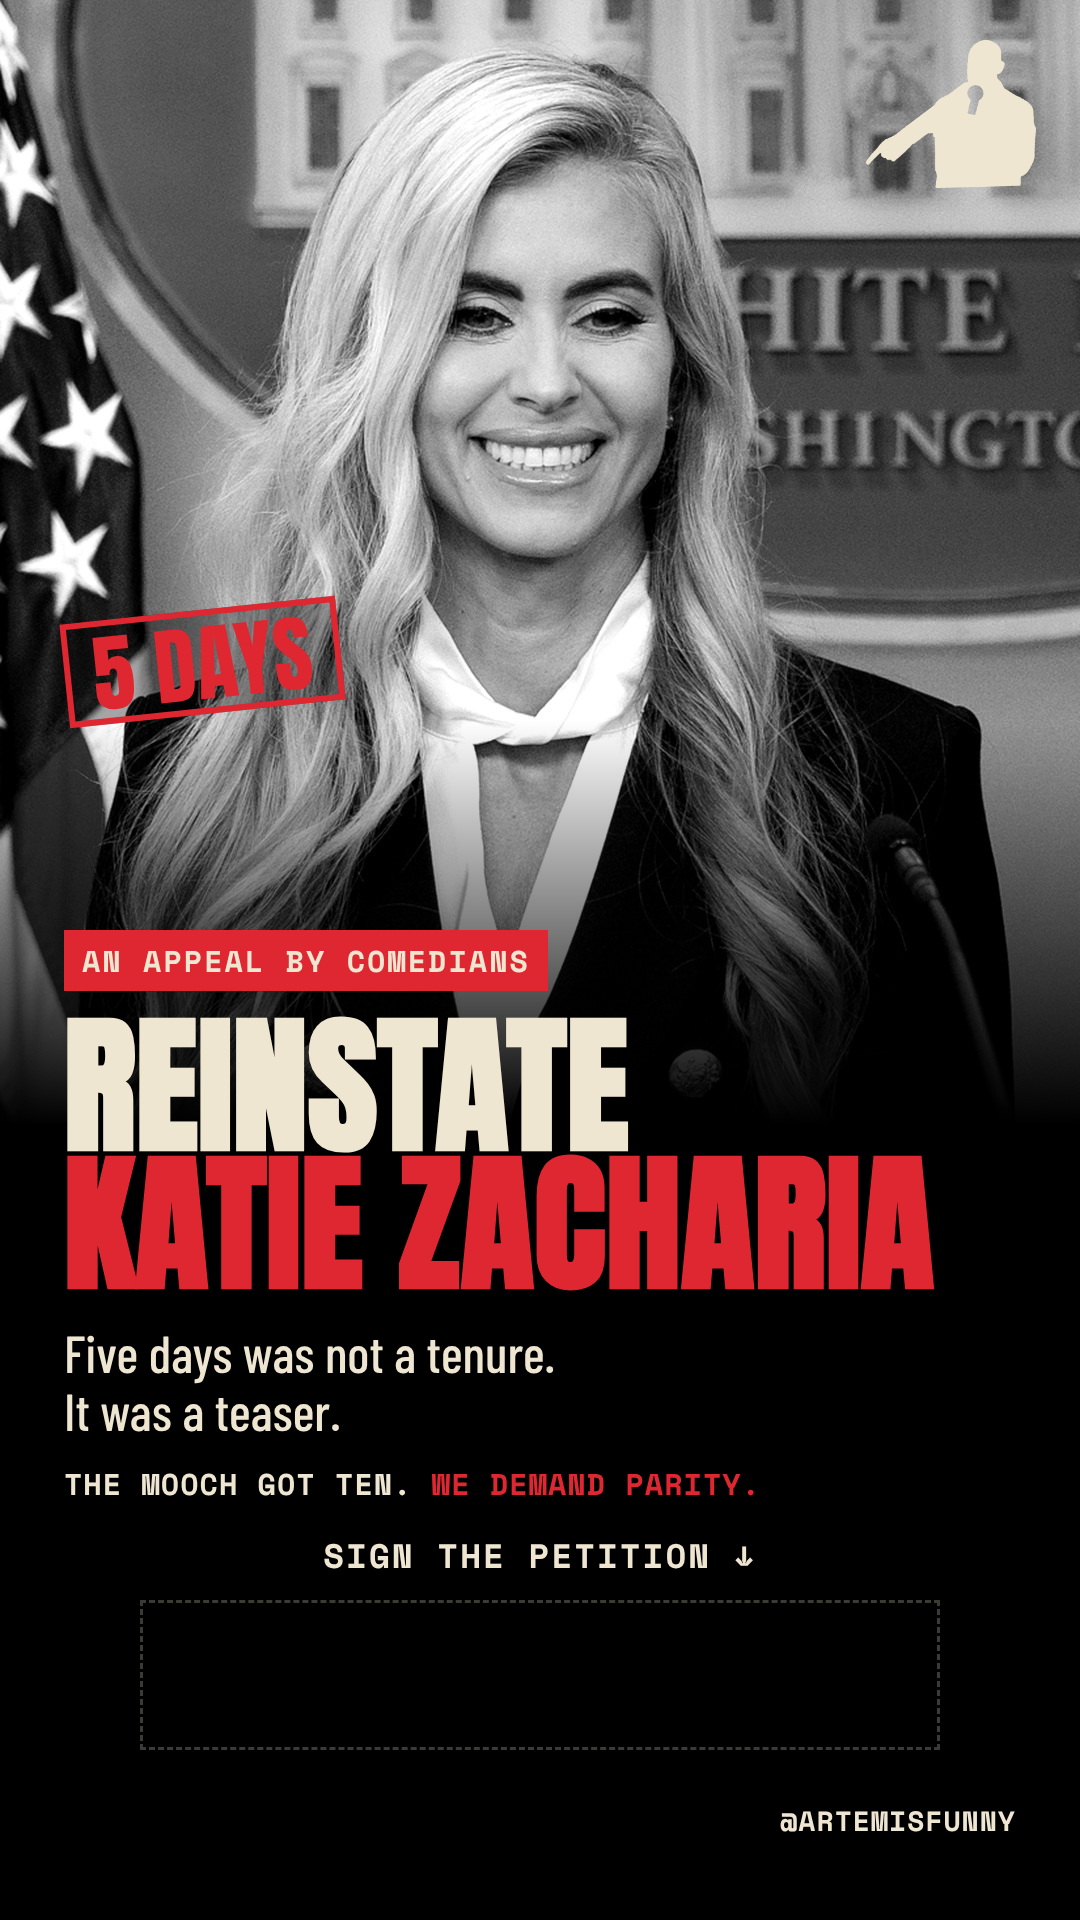
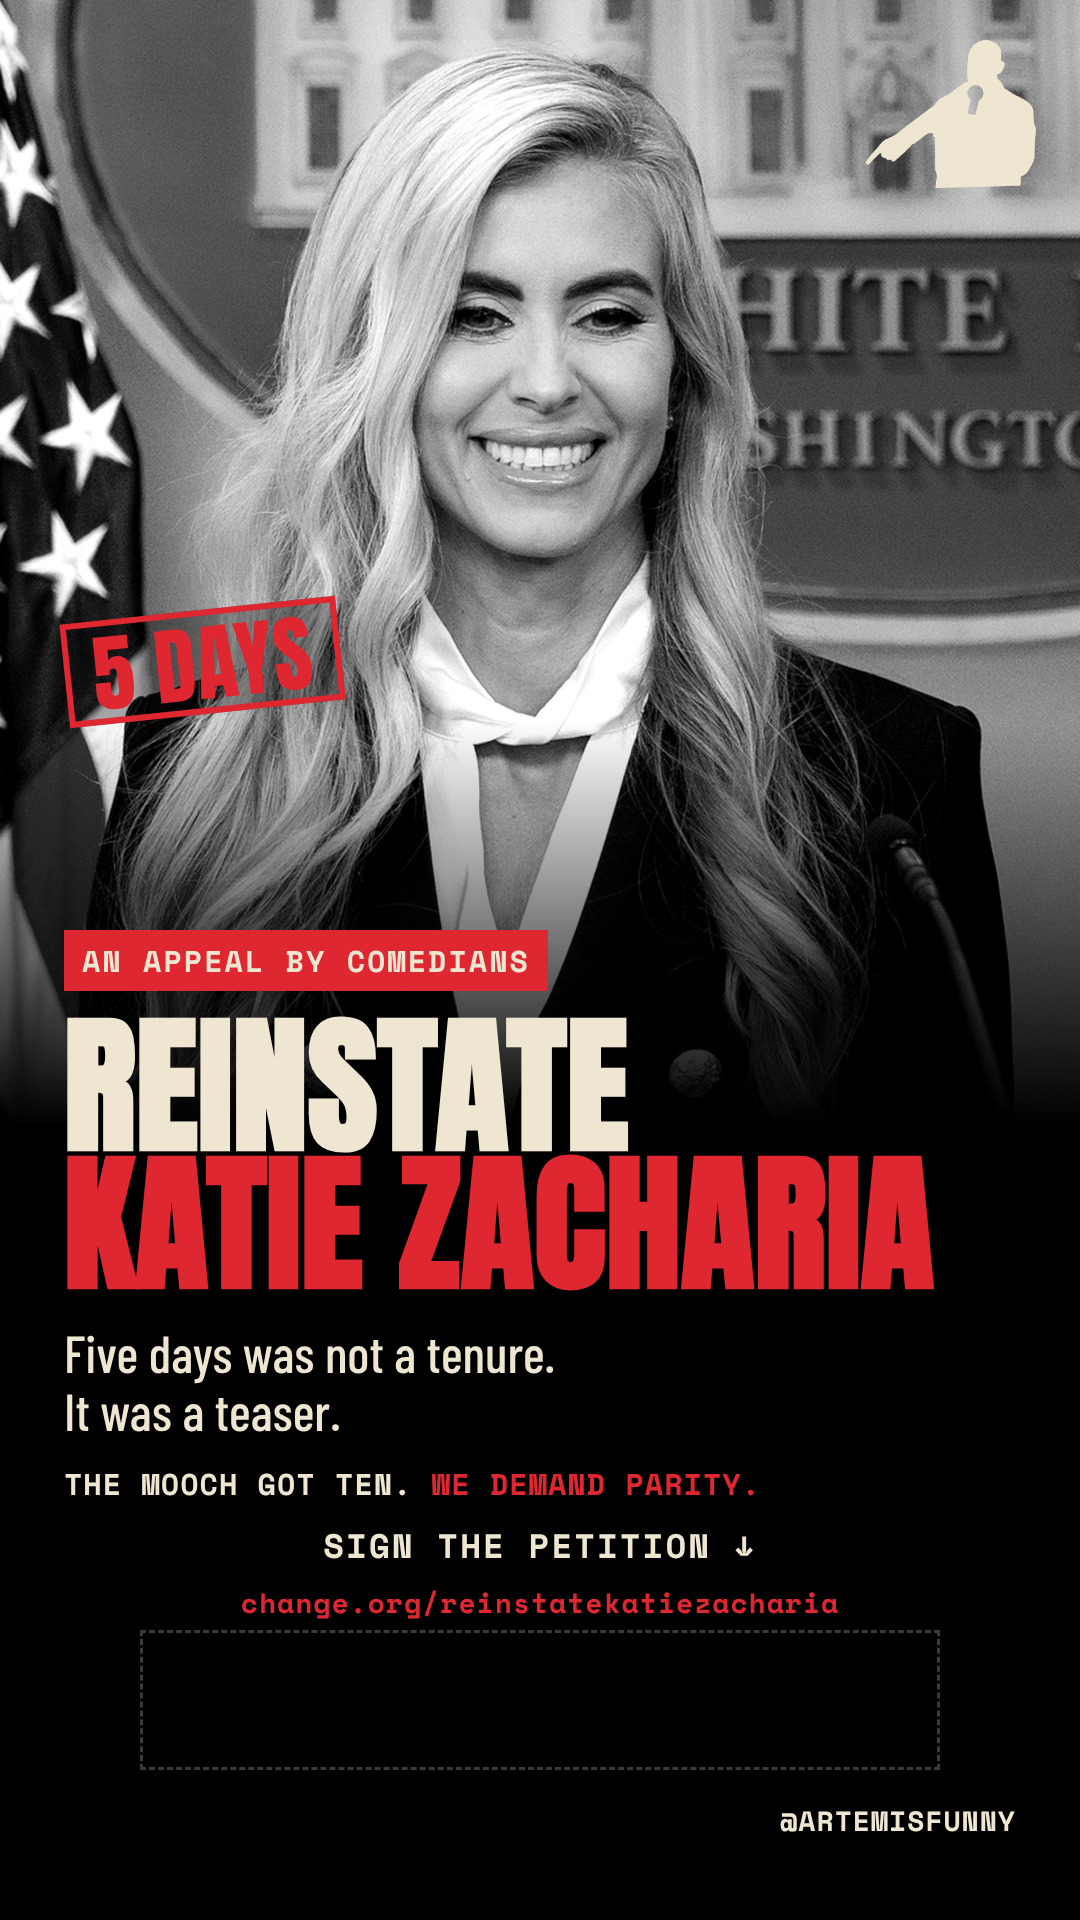
Katie petition: vanity URL on the story, full caption kit
Claude-Session: https://claude.ai/code/session_01RXovndM1cErPGYSWJ57YQ7

Changed region(s): [[0.2139, 0.7812, 0.7639, 0.8438]]

diff --git a/katie-petition/build.py b/katie-petition/build.py
@@ -59,8 +59,9 @@ body {{ width:1080px; height:1920px; background:#000; color:{CREAM}; position:re
 h1 {{ font-size:150px; line-height:.92; margin-top:26px; }}
 .sub {{ font-size:52px; line-height:1.12; margin-top:30px; }}
 .tag {{ font-size:30px; letter-spacing:1px; margin-top:22px; }}
-.sign {{ position:absolute; left:64px; right:64px; top:1530px; font-size:34px; letter-spacing:2px; text-align:center; }}
-.band {{ position:absolute; left:140px; right:140px; top:1600px; height:150px; border:3px dashed rgba(239,230,210,.25); }}
+.sign {{ position:absolute; left:64px; right:64px; top:1520px; font-size:34px; letter-spacing:2px; text-align:center; }}
+.url {{ font-size:28px; letter-spacing:1px; margin-top:12px; color:{RED}; text-transform:lowercase; }}
+.band {{ position:absolute; left:140px; right:140px; top:1630px; height:140px; border:3px dashed rgba(239,230,210,.25); }}
 .foot {{ position:absolute; left:64px; right:64px; top:1800px; text-align:right; font-size:28px; letter-spacing:1px; }}
 """
 
@@ -76,7 +77,7 @@ def story_html(logo):
   <div class="barlow sub">Five days was not a tenure.<br>It was a teaser.</div>
   <div class="mono tag">The Mooch got ten. <span class="red">We demand parity.</span></div>
 </div>
-<div class="mono sign">Sign the petition &darr;</div>
+<div class="mono sign">Sign the petition &darr;<div class="url">change.org/reinstatekatiezacharia</div></div>
 <div class="band"></div>
 <div class="mono foot">@ARTEMISFUNNY</div>
 </body></html>"""

diff --git a/katie-petition/captions.md b/katie-petition/captions.md
@@ -1,12 +1,23 @@
-# Katie Zacharia petition: story copy
+# Katie Zacharia petition: promo kit
 
-Link sticker: https://c.org/mDYYxzhc55  (English re-launch, 2026-10-21; the first pt-BR petition is retired)
-Sticker text: SIGN THE APPEAL
+Petition: change.org/reinstatekatiezacharia
+Short link (for the sticker, credits signatures to Artem): https://c.org/mDYYxzhc55
+Retired: the first pt-BR petition at /p/reinstate-katie-zacharia-an-appeal-by-comedians. Don't link it.
 
-Headline swaps for the story (all lifted from or built on the petition text):
+## Story
+Post `out/katie_story_1080x1920.png`. Link sticker in the empty band under the URL, sticker text: SIGN THE APPEAL
 
+Headline swaps (all lifted from or built on the petition text):
 1. Five days was not a tenure. It was a teaser.  (on the story now)
 2. She speedran the First Amendment and left.
 3. The Mooch got ten days. She got five. Comedians are in mourning.
 4. We had bits. We had specials. We barely got to say hello.
 5. Comedian. Bereaved. Sign below.
+
+## Feed / X caption options
+1. Five days was not a tenure. It was a teaser. Comedians have filed an appeal. change.org/reinstatekatiezacharia
+2. She speedran the First Amendment and left. We had a whole hour on her. change.org/reinstatekatiezacharia
+3. Scaramucci lasted ten days. She lasted five. Some of us were mid-bit. change.org/reinstatekatiezacharia
+
+## DM / group chat share
+We had bits ready. She left after five days. Sign the appeal: change.org/reinstatekatiezacharia
